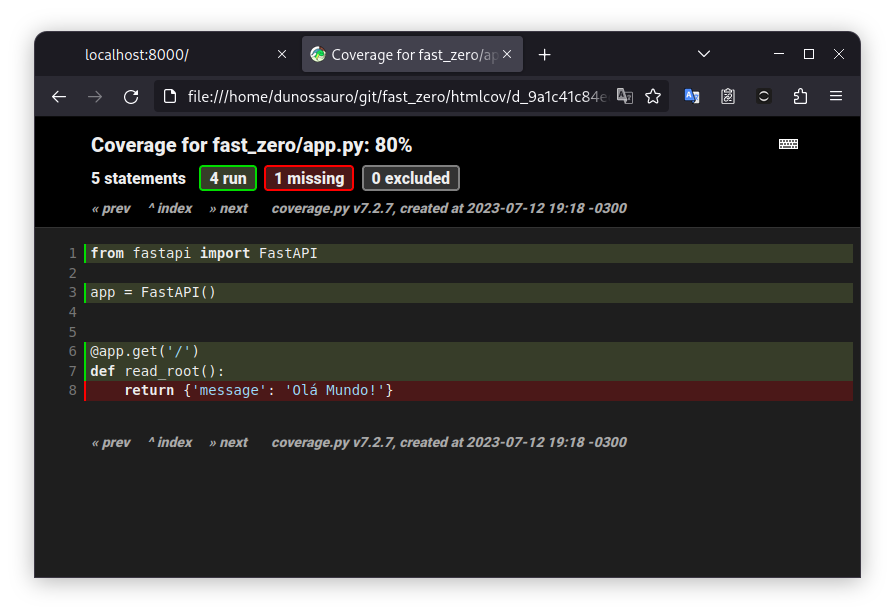
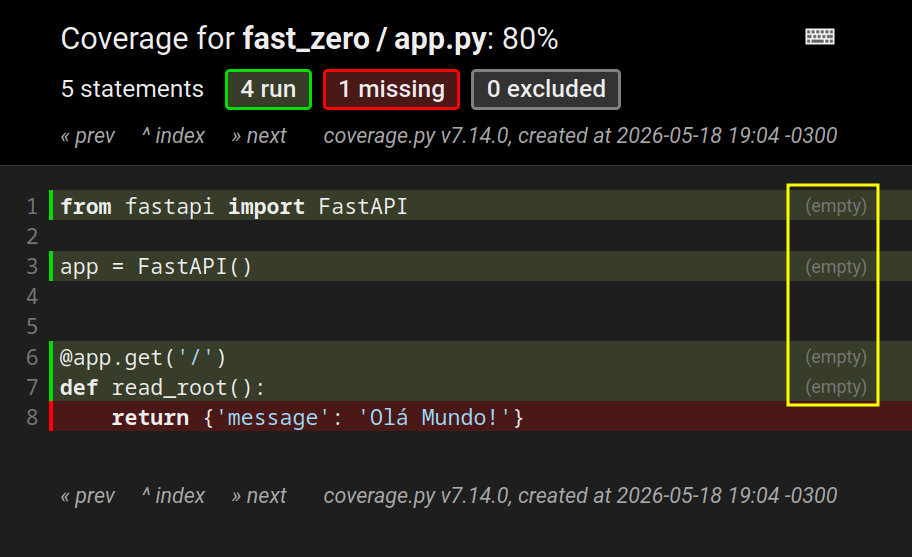
Adicionando imagens de contexto de cobertura na aula 01
related #523

diff --git a/aulas/01.md b/aulas/01.md
@@ -733,8 +733,6 @@ Se clicarmos no arquivo `fast_zero/app.py` podemos ver em vermelho as linhas que
 
 ![navegador](assets/01/navegador_com_pagina_de_cobertura_sem_testes.png){: .center  }
 
-> TODO: Alterar essa imagem
-
 Isto significa que precisamos testar todo esse arquivo.
 
 ### Escrevendo o teste
@@ -781,9 +779,7 @@ No navegador, podemos ver que a única linha não "testada" é aquela onde temos
 
 ![browser](assets/01/navegador_com_pagina_de_cobertura_com_estrutuda_de_testes.png){: .center  }
 
-> TODO: Alterar essa imagem
-
-No verde, vemos o que foi executado quando chamamos o teste, no vermelho o que não foi.
+No verde, vemos o que foi executado quando chamamos o teste, no vermelho o que não foi. Outra informação importante, destacada em amarelo, é o texto `(empty)`, que diz que nenhum teste executou de fato essas linhas.
 
 Para resolver isso, temos que criar um teste de fato, fazendo uma chamada para nossa API usando o cliente de teste que definimos:
 
@@ -825,12 +821,17 @@ Como conseguimos coletar um item, o `post_test` foi executado e também gerou um
 
 ![descrição](assets/01/navegador_com_pagina_de_cobertura_com_teste.png){: .center }
 
-> TODO: Alterar essa imagem
+As linhas com `(empty)` continuam, pois elas são importadas sem nenhum teste. Porém, a ultima linha tem uma setinha com `1 ctx`. Isso quer dizer que nosso teste executou aquela linha em específico.
 
+Ao clicar nela:
+
+![descrição](assets/01/navegador_com_pagina_de_cobertura_com_teste_e_cxt.png){: .center }
+
+Podemos ver exatamente o arquivo de teste e qual teste em específico executou a linha em questão: `tests/test_app.py::test_root_deve_retornar_ok_e_ola_mundo`. Isso facilita bastante o entendimento de qual teste passa por determinado caminho na aplicação.
 
 ## Estrutura de um teste
 
-Agora que escrevemos nosso primeiro teste de forma intuitiva, podemos entender o que cada passo do teste faz. Essa compreensão é vital, pois nos ajudará a escrever testes com mais confiança e eficácia. Para desvendar o método por trás da nossa abordagem, exploraremos uma estratégia conhecida como [AAA](https://xp123.com/articles/3a-arrange-act-assert/){:target="_blank"}, que divide o teste em três fases distintas: Arrange, Act, Assert.
+Agora que escrevemos nosso primeiro teste intuitivamente, podemos entender o que cada passo do teste faz. Essa compreensão é vital, pois nos ajudará a escrever testes com mais confiança e eficácia. Para desvendar o método por trás da nossa abordagem, exploraremos uma estratégia conhecida como [AAA](https://xp123.com/articles/3a-arrange-act-assert/){:target="_blank"}, que divide o teste em três fases distintas: Arrange, Act, Assert.
 
 ??? info "Caso fazer testes ainda seja complicado para você"
 	Temos uma live de python focada em ensinar os primeiros passos no mundo dos testes.